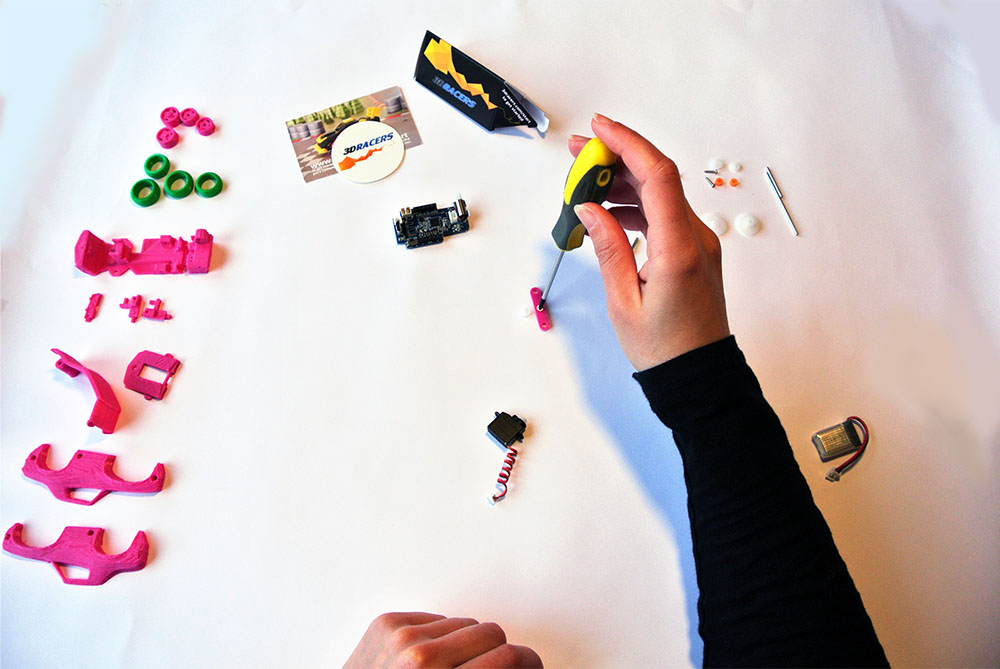
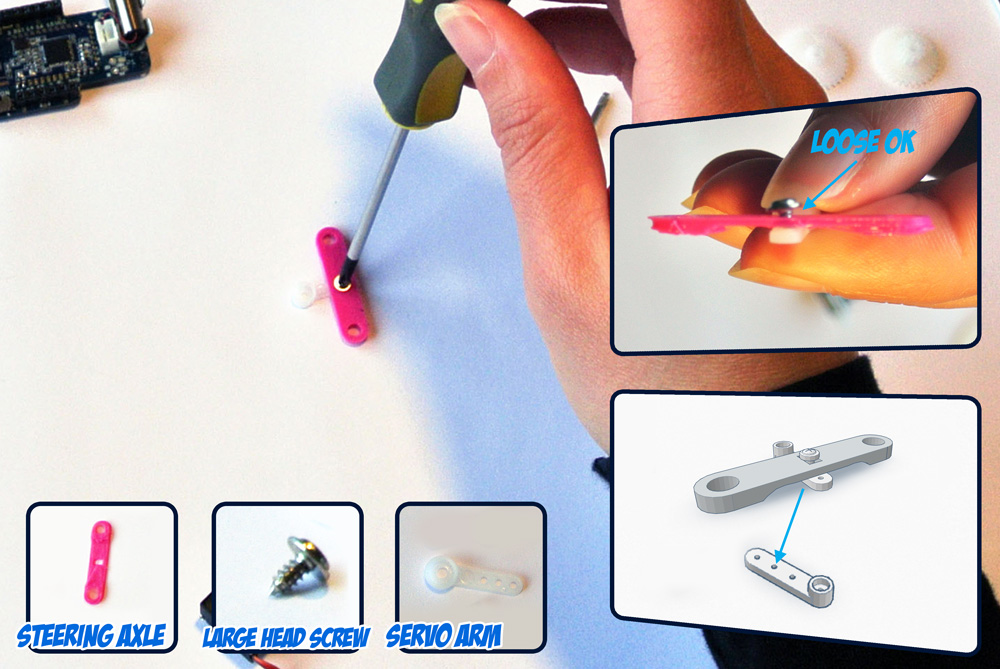
Better docs images with closeup and parts names

diff --git a/start.html.md b/start.html.md
@@ -13,7 +13,7 @@ search: true
 
 # Assembly guide
 
-> ![3DRacers Assembly Guide](/docimages/assembly-1.jpg?raw=true "3DRacers Assembly Guide")
+> ![3DRacers Assembly Guide](/docimages/assembly-complete.jpg?raw=true "3DRacers Assembly Guide")
 
 Welcome driver and thanks for purchasing a 3DRacers!
 
@@ -22,11 +22,15 @@ You are just a few steps away from your first race: just choose one of the [avai
 Also, don't forget to download the [iOS](https://itunes.apple.com/jp/app/3dracers/id1054404136?l=en&mt=8) or [Android](https://play.google.com/store/apps/details?id=com.Lib3DRacers.Lib3DRacers) app.
 
 ### Other sections
-[Documentation](/docs) - [App Guide](/docs/app.html) - [Online Editor](http://www.3dracers.com/edior) - [Coding Guide](/docs/code.html)
+[Documentation](/docs) - [App Guide](/docs/app.html) - [Online Editor](http://www.3dracers.com/editor) - [Coding Guide](/docs/code.html)
 
 ![3DRacers Game](/docimages/cars.jpg?raw=true "3DRacers Assembled Car")
  
+
+ 
 ## What's needed
+
+> ![3DRacers Assembly Guide](/docimages/assembly-1.jpg?raw=true "3DRacers Assembly Guide")
 
 The 3DRacers Kit contains everything needed: screws, axles, gears, and a **pre-programmed 3DRacers Pilot** board.
 
@@ -34,14 +38,16 @@ However, depending on the quality of your print, you could also need a rasp and 
 
 ## Servo center
 
-First of all, plug the Servo connector in the A port. Now plug the LiPo battery and turn on the Pilot Board. 
+First of all, plug the `Servo` to the `A port`. Now plug the `LiPo battery` to the bigger port and turn on the `Pilot Board`. 
 
 You'll hear the servo move to the center position.
 
-![3DRacers Assembly Guide](/docimages/assembly-2.jpg?raw=true "3DRacers Assembly Guide")
-![3DRacers Assembly Guide](/docimages/assembly-2-detail.jpg?raw=true "3DRacers Assembly Guide")
+PS: click on an image to enlarge it
+<a href="/docimages/big/0.jpg?raw=true" target="_blank">![3DRacers Assembly Guide](/docimages/assembly-2.jpg?raw=true "3DRacers Assembly Guide")</a>
 
-Now that the Pilot is working and the Servo is centered, you can **turn off the Board** and remove the LiPo to proceed to the next step.
+This step was useful to center the `Servo` so that it will steer equally from left to right.
+
+Now you can turn off the Board and **remove the LiPo** to proceed to the next step.
 
 <aside class="notice">
 <strong>Remember to unplug the battery</strong> when you work on the board. Screws, axles and other metallic parts could cause a short-circuit!
@@ -49,39 +55,49 @@ Now that the Pilot is working and the Servo is centered, you can **turn off the 
 
 ## 1 - The small parts
 
-Due to differences in every 3D printer, some parts will have a tolerance error. To overcome this problem, the 3DRacers models contains several variations of the same part that are 3D-printed together.
+Due to differences in every 3D printer, some parts will have a tolerance error. 
 
-Pick the steering axles that fit better together (not too loose), and try to insert the front wheels pins. If the hole is too small use the steering arm with the "+" sign instead.
-Also choose the front wheel that will rotate freely but not too loose.
+To overcome this problem, the 3DRacers models contains several variations of the same part that are 3D-printed together.
 
-![3DRacers Assembly Guide](/docimages/assembly-3.jpg?raw=true "3DRacers Assembly Guide")
-![3DRacers Assembly Guide](/docimages/assembly-3-detail.jpg?raw=true "3DRacers Assembly Guide")
-![3DRacers Assembly Guide](/docimages/assembly-3-detail2.jpg?raw=true "3DRacers Assembly Guide")
+Pick the `Steering Arms` that fit better together with the `Steering Axles` (so that can turn freely but not too loose).
+
+<a href="/docimages/big/1.jpg?raw=true" target="_blank">![3DRacers Assembly Guide](/docimages/assembly-3.jpg?raw=true "3DRacers Assembly Guide")</a>
+
+
+
+Also choose the `Front Wheels` (the one with a pass-trough hole) that will rotate freely but not too loose. 
+
+If the hole in the `Steering Arm` is too small for the `Pin`, use the `Steering Arm` with the "**+**" sign instead.
+
+<a href="/docimages/big/1bis.jpg?raw=true" target="_blank">![3DRacers Assembly Guide](/docimages/assembly-3-detail.jpg?raw=true "3DRacers Assembly Guide")</a>
 
 <aside class="notice">
-If you have troubles inserting the nails, try to scrape the hole with the scredriver to widen it
+If you have troubles inserting the Pins, try to scrape the hole with the scredriver to widen it. Also printing with lower temperatures will help.
 </aside>
 
-After plugging each part, try to rotate them in position, to remove any imperfections that could be inside the holes.
+Also, in the following guide, after plugging each part, try to rotate them in position to remove any imperfections that could be inside the holes.
 
 ## 2 - Steering mechanism
 
-Fix the steering axle with a screw, and then the Servo axle to the servo 
+Fix the `Steering Axle` with the `Large Head Screw` in the middle hole. The Steering Axle is directed toward the bottom like in the picture.
 
-![3DRacers Assembly Guide](/docimages/assembly-4.jpg?raw=true "3DRacers Assembly Guide")
+<a href="/docimages/big/2.jpg?raw=true" target="_blank">![3DRacers Assembly Guide](/docimages/assembly-4.jpg?raw=true "3DRacers Assembly Guide")</a>
 
-Be carefull to not tighten too much the screws or rotate the Servo button
+Now plug the `Servo Arm` in the `Servo`.
 
-![3DRacers Assembly Guide](/docimages/assembly-4-detail.jpg?raw=true "3DRacers Assembly Guide")
-![3DRacers Assembly Guide](/docimages/assembly-4-detail2.jpg?raw=true "3DRacers Assembly Guide")
+<aside class="notice">
+Be carefull to not tighten too much the screws or force rotate the Servo!
+</aside>
 
-Now you can put the servo and the Board in the car like in the picture, and fix them with a screw.
+<a href="/docimages/big/2bis.jpg?raw=true" target="_blank">![3DRacers Assembly Guide](/docimages/assembly-4-detail.jpg?raw=true "3DRacers Assembly Guide")</a>
 
-![3DRacers Assembly Guide](/docimages/assembly-5.jpg?raw=true "3DRacers Assembly Guide")
+Now you can put the `Servo` and the Board in the car like in the picture, and fix them with one of the `Standard Screws`.
+
+<a href="/docimages/big/2tris.jpg?raw=true" target="_blank">![3DRacers Assembly Guide](/docimages/assembly-4-detail2.jpg?raw=true "3DRacers Assembly Guide")</a>
 
 ## 3 - The wheels
 
-Put the rubber tires in the wheels.
+Put the `Rubber Tires` on wheels.
 
 ![3DRacers Assembly Guide](/docimages/assembly-6.jpg?raw=true "3DRacers Assembly Guide")
 
@@ -94,34 +110,43 @@ Now put the parts all together and close the hood
 
 ## 5 - The rear axle
 
-Insert the bearings, orange gushings, rear gear and wheels as in the picture, and put them inside the car.
+Insert the `Double Gear` to the back of the car in the **bottom hole**, so that it can spin freely.
 
-![3DRacers Assembly Guide](/docimages/assembly-8.jpg?raw=true "3DRacers Assembly Guide")
-![3DRacers Assembly Guide](/docimages/assembly-8-detail.jpg?raw=true "3DRacers Assembly Guide")
-![3DRacers Assembly Guide](/docimages/assembly-8-detail2.jpg?raw=true "3DRacers Assembly Guide")
+<a href="/docimages/big/5.jpg?raw=true" target="_blank">![3DRacers Assembly Guide](/docimages/assembly-8.jpg?raw=true "3DRacers Assembly Guide")</a>
 
-Just roughly center the wheels, you can adjust the orange gushings position later.
+Insert the `Bearings`, orange `Gushings`, `Single Gear` and `Rear Wheels` as in the picture, and put them inside the car.
+
+<a href="/docimages/big/5bis.jpg?raw=true" target="_blank">![3DRacers Assembly Guide](/docimages/assembly-8-detail.jpg?raw=true "3DRacers Assembly Guide")</a>
+
+<aside class="notice">
+No need to center the wheels exactly, it's easier to adjust the orange Bushings position later.
+</aside>
+
 
 ## 6 - The Pilot board
 
-Take the bearing holder that right height, and insert it together with the 3DRacers Pilot board that will hold the parts together.
+Take the `Bearing holder` with the right height, so that will reach the same level of the adjacent parts.
 
-Insert the screw on the most external hole of the board.
+Now insert the 3DRacers Pilot board and fix it with a screw in the **external hole** of the board.
 
 ![3DRacers Assembly Guide](/docimages/assembly-9.jpg?raw=true "3DRacers Assembly Guide")
 ![3DRacers Assembly Guide](/docimages/assembly-9-detail.jpg?raw=true "3DRacers Assembly Guide")
 
-Check if the motor touch the gears, and that it can spin freely. Otherwhise use an higher bearing holder.
+Check if the motor touch the gears, and that it can spin freely. 
+
+You can adjust the height of the board (and so of the `Motor`) changing the `Bearing Holder`:
 
 ![3DRacers Assembly Guide](/docimages/assembly-9-detail2.jpg?raw=true "3DRacers Assembly Guide")
 
-You can also use the screw hole near the motor, that will move the board slightly forward. 
+Also by changing the hole for the screw, the board will move to the front by 0.5mm.
 
-You can complete the assembly first, then it will be easier to find the right combination of hole/holder height after some trial runs.
+<aside class="notice">
+It's easier to adjust Board position later, after your first assembly it will be easier to find the right combination of hole/holder height.
+</aside>
 
-## 7 - The sunroof
+## 7 - The roof
 
-Insert the sunroof axle and the the top part. Be carefull so that the axle doesn't touch the gears.
+Insert the `Small Axle` and the roof part. Be carefull so that the axle doesn't touch the `Double Gear`.
 
 ![3DRacers Assembly Guide](/docimages/assembly-10.jpg?raw=true "3DRacers Assembly Guide")
 ![3DRacers Assembly Guide](/docimages/assembly-10-detail.jpg?raw=true "3DRacers Assembly Guide")
